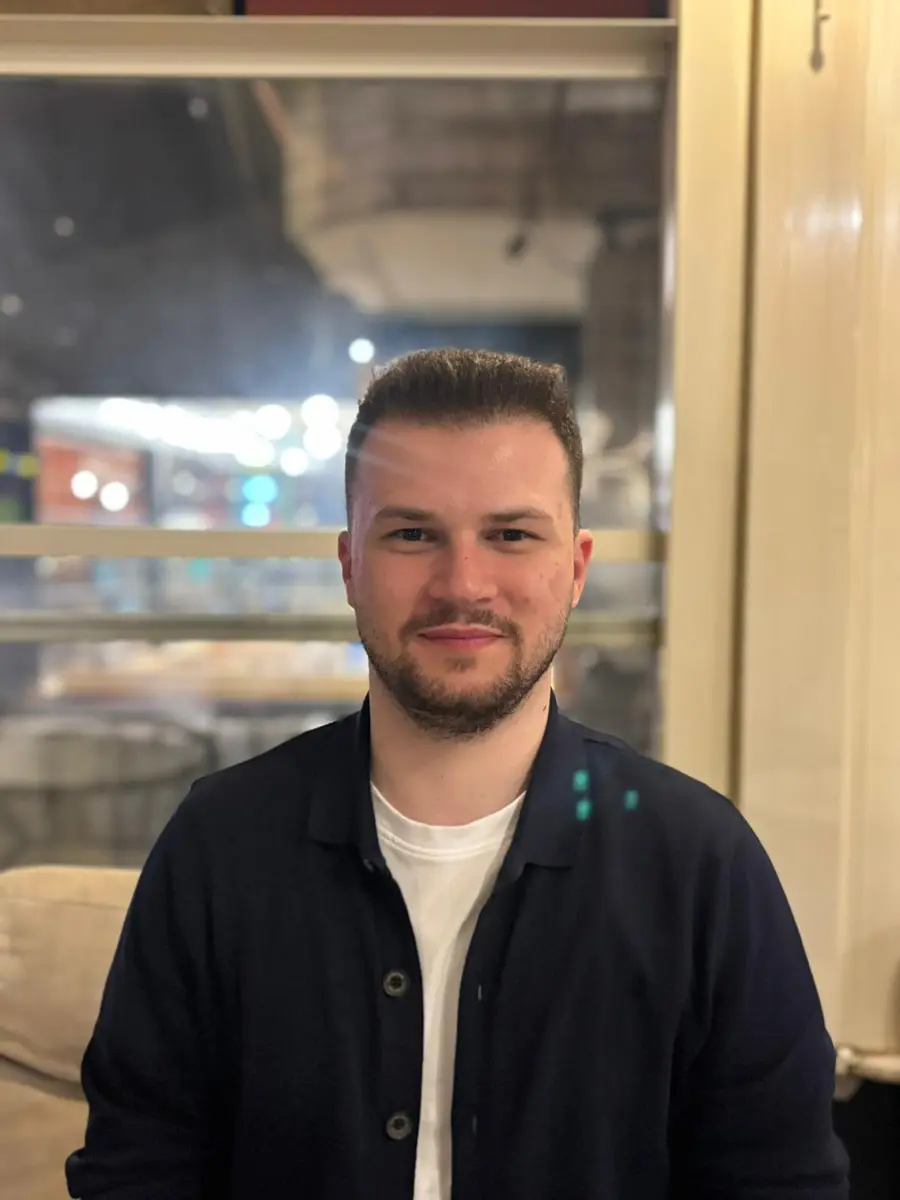
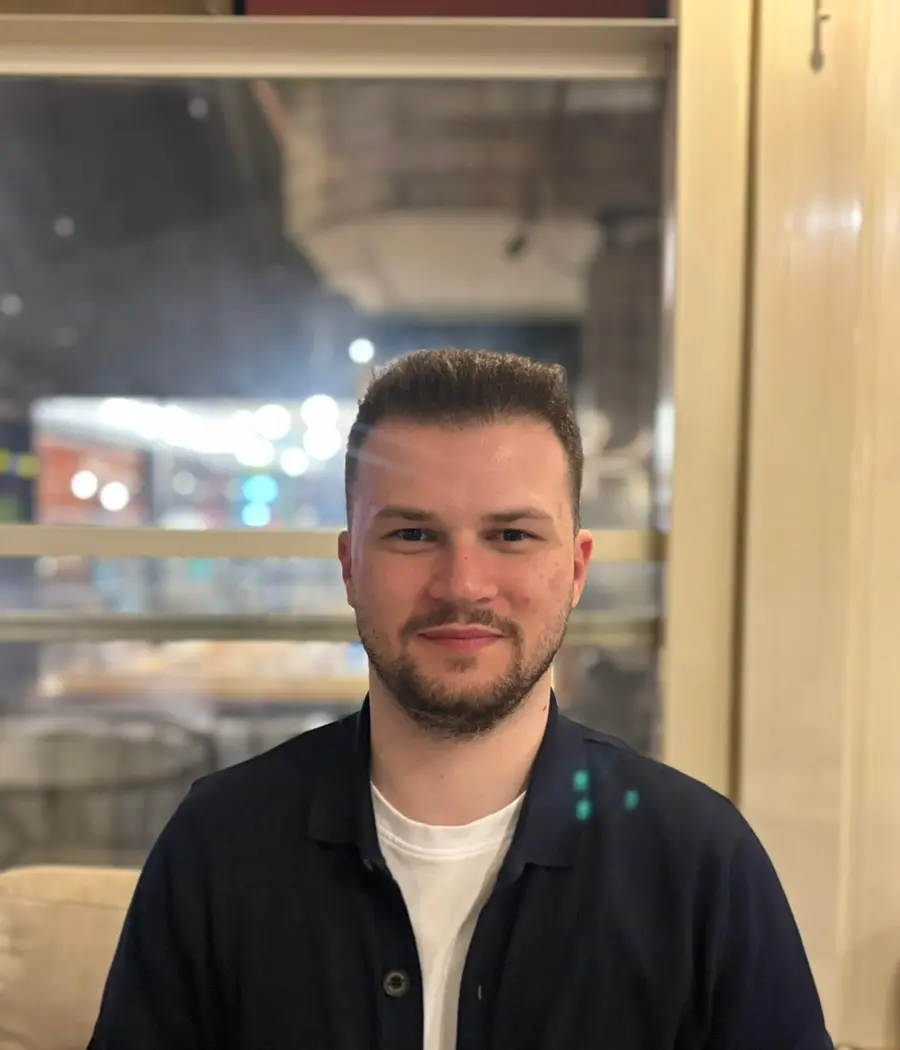
Add files via upload

diff --git a/hakkimizda.html b/hakkimizda.html
@@ -56,7 +56,7 @@
         </div>
         <div class="about-content">
             <div class="about-image">
-                <img src="talha-vizirhan.webp" alt="Ergoterapist Talha Vizirhan" width="900" height="1200">
+                <img src="talha-vizirhan.webp" alt="Ergoterapist Talha Vizirhan" width="900" height="1050">
             </div>
             <div class="about-text">
                 <h2>Merhaba, ben Ergoterapist Talha Vizirhan.</h2>
